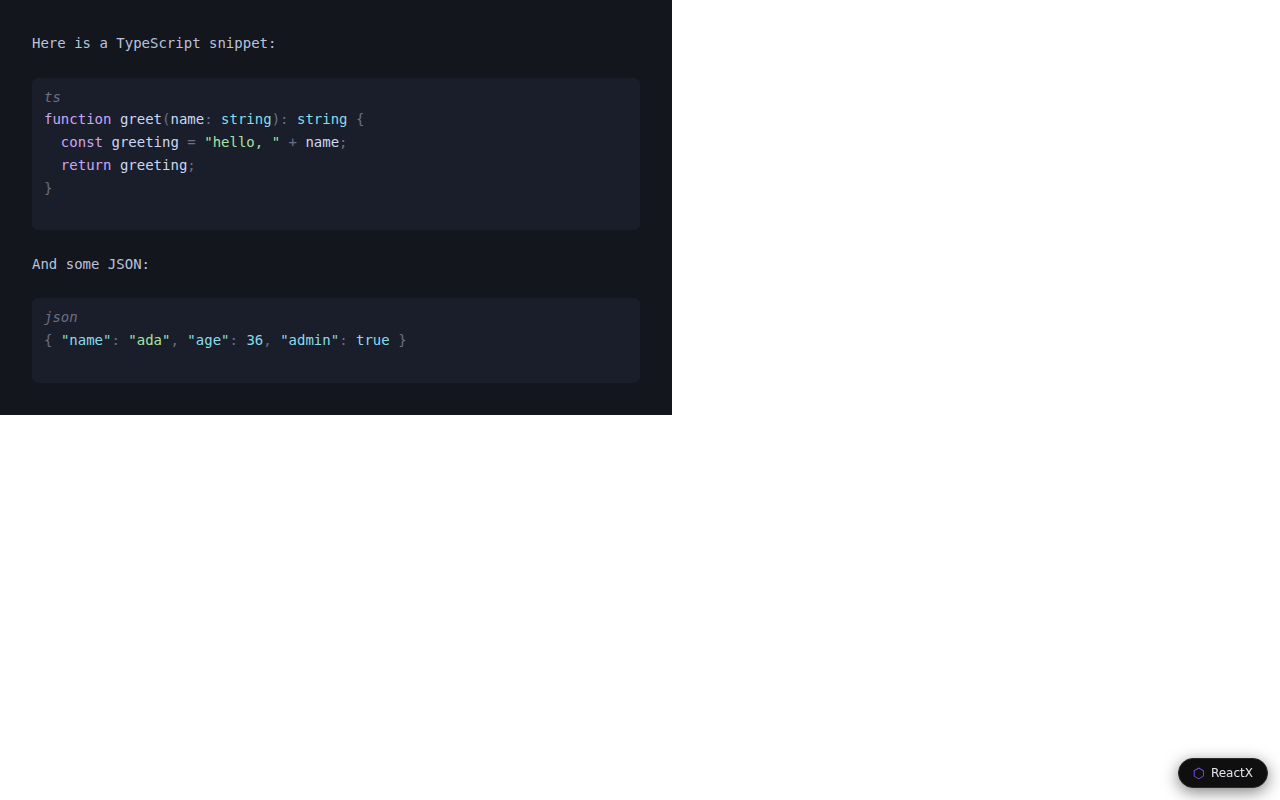
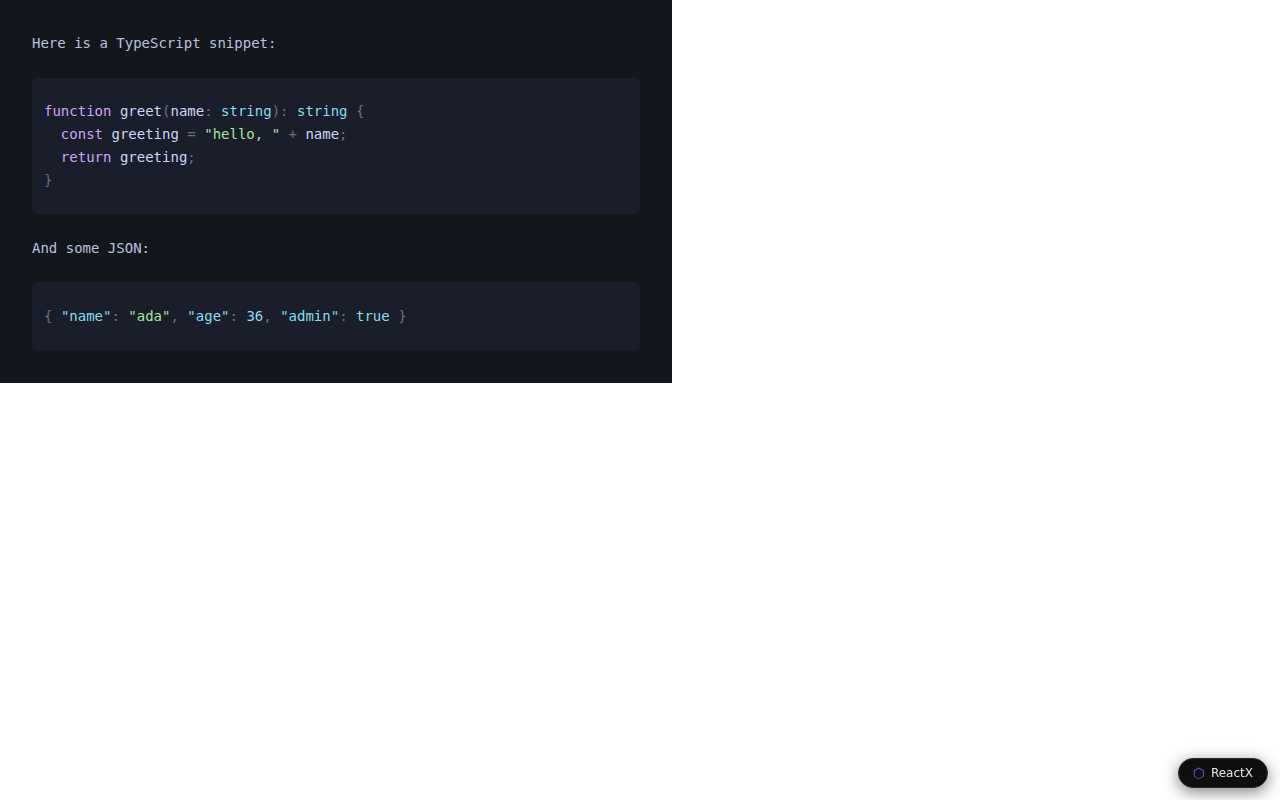
feat: refine code blocks — create on Enter, hide language, delete-when-empty
- A lone ``` is treated as plain text; the block (box) is only created once it
  spans multiple lines, i.e. after Enter triggers the auto-close.
- Hide the language info as well as the backticks — both stay behind the box;
  the empty fence lines collapse into slim rounded padding bands.
- Backspacing an empty multi-line code block removes the whole block (dropped
  the fence-line guard since the language is no longer editable inline).

diff --git a/src/common/markdown/editorExtensions.ts b/src/common/markdown/editorExtensions.ts
@@ -82,11 +82,19 @@ function buildDecorations(view: EditorView): DecorationSet {
       const fence = n.node;
       const first = state.doc.lineAt(fence.from).number;
       const last = state.doc.lineAt(Math.max(fence.from, fence.to - 1)).number;
+      // A still-being-typed ``` is a single line — not a block yet. The block is
+      // created once it spans multiple lines (i.e. after Enter).
+      if (first === last) return;
       for (let ln = first; ln <= last; ln++) {
         codeBlock.set(ln, { open: ln === first, close: ln === last });
       }
+      // Hide the ``` markers and the language info — both live "behind" the box.
       for (const mk of fence.getChildren("CodeMark")) {
         if (mk.to > mk.from) ranges.push(Decoration.replace({}).range(mk.from, mk.to));
+      }
+      const info = fence.getChild("CodeInfo");
+      if (info && info.to > info.from) {
+        ranges.push(Decoration.replace({}).range(info.from, info.to));
       }
     },
   });
@@ -177,15 +185,12 @@ const removeEmptyCodeBlock: KeyBinding = {
     if (!sel.empty) return false;
     const fence = enclosingFence(state, sel.head);
     if (!fence) return false;
+    const first = state.doc.lineAt(fence.from).number;
+    const last = state.doc.lineAt(Math.max(fence.from, fence.to - 1)).number;
+    if (first === last) return false; // a lone ``` being typed — not a block
     const codeText = fence.getChild("CodeText");
     const content = codeText ? state.doc.sliceString(codeText.from, codeText.to) : "";
     if (content.trim() !== "") return false; // only when the block is empty
-    // Don't fire while the cursor sits on a fence marker line — let the user edit
-    // the ``` / language normally there.
-    const fenceLineNums = new Set(
-      fence.getChildren("CodeMark").map((mk) => state.doc.lineAt(mk.from).number),
-    );
-    if (fenceLineNums.has(state.doc.lineAt(sel.head).number)) return false;
     let from = fence.from;
     let to = fence.to;
     // Absorb one adjacent newline so removing the block doesn't leave a gap.

diff --git a/src/common/ui-components/Markdown.tsx b/src/common/ui-components/Markdown.tsx
@@ -32,14 +32,18 @@ export function Markdown({ source }: { source: string }) {
   const hidden: Array<[number, number]> = [];
   tree.iterate({
     enter: (n) => {
-      if (n.name === "FencedCode") {
-        const first = lineIndexAt(lines, n.from);
-        const last = lineIndexAt(lines, Math.max(n.from, n.to - 1));
-        for (let i = first; i <= last; i++) {
-          codeBlock.set(i, { open: i === first, close: i === last });
-        }
+      if (n.name !== "FencedCode") return;
+      const first = lineIndexAt(lines, n.from);
+      const last = lineIndexAt(lines, Math.max(n.from, n.to - 1));
+      if (first === last) return; // single-line ``` — not a block yet
+      for (let i = first; i <= last; i++) {
+        codeBlock.set(i, { open: i === first, close: i === last });
       }
-      if (n.name === "CodeMark") hidden.push([n.from, n.to]);
+      // Hide the ``` markers and the language info — both live behind the box.
+      const node = n.node;
+      for (const mk of node.getChildren("CodeMark")) hidden.push([mk.from, mk.to]);
+      const info = node.getChild("CodeInfo");
+      if (info) hidden.push([info.from, info.to]);
     },
   });
 

diff --git a/src/common/ui-components/Markdown.test.tsx b/src/common/ui-components/Markdown.test.tsx
@@ -19,15 +19,19 @@ describe("Markdown reader", () => {
     expect(container.textContent).toContain("- second");
   });
 
-  it("hides the ``` fence lines but highlights the code", () => {
+  it("hides the ``` markers and language, but highlights the code", () => {
     const source = ["```js", "const x = 1;", "```"].join("\n");
     const { container } = render(<Markdown source={source} />);
-    // Fence delimiter lines are not rendered.
+    // The ``` markers and the language label live behind the box, not shown.
     expect(container.textContent).not.toContain("```");
+    expect(container.textContent).not.toContain("js");
     // Code text remains, with language highlighting applied.
     expect(container.textContent).toContain("const x = 1;");
     const keyword = container.querySelector(".tok-keyword");
     expect(keyword?.textContent).toBe("const");
+    // The block is boxed (open + close rows present).
+    expect(container.querySelector(".md-line-code-open")).not.toBeNull();
+    expect(container.querySelector(".md-line-code-close")).not.toBeNull();
   });
 
   it("renders nothing for empty source", () => {

diff --git a/src/index.css b/src/index.css
@@ -81,15 +81,17 @@ html.ui-desktop {
 .cm-editor .cm-line.cm-md-code {
   background: color-mix(in srgb, var(--color-surface) 72%, transparent);
 }
+/* The opening/closing fence lines carry no visible text (``` and language are
+   hidden), so they collapse into slim rounded padding bands at the top/bottom. */
 .md-line-code-open,
 .cm-editor .cm-line.cm-md-code-open {
-  padding-top: 0.5rem;
+  min-height: 0.6rem;
   border-top-left-radius: 6px;
   border-top-right-radius: 6px;
 }
 .md-line-code-close,
 .cm-editor .cm-line.cm-md-code-close {
-  padding-bottom: 0.5rem;
+  min-height: 0.6rem;
   border-bottom-left-radius: 6px;
   border-bottom-right-radius: 6px;
 }
@@ -101,11 +103,6 @@ html.ui-desktop {
 }
 .tok-mark {
   color: var(--color-dim);
-}
-/* Fenced-code language label (e.g. the `js` after ```). */
-.tok-labelName {
-  color: var(--color-muted);
-  font-style: italic;
 }
 .tok-monospace {
   color: var(--color-teal);
